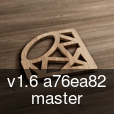
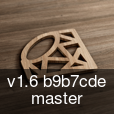
Simple test for existence of root_controller

Changed region(s): [[0.3684, 0.6579, 0.9474, 0.7632]]

diff --git a/files/spec/main_spec.rb b/files/spec/main_spec.rb
@@ -19,8 +19,8 @@ describe "Application 'SplashMotion'" do
     end
   end
 
-  it "should have base_leather stylesheet" do
-    @stylesheet = Teacup::Stylesheet[:base_leather]
-    @stylesheet.nil?.should == false
+  it "should have theme styles" do
+    Teacup::Stylesheet[:base_leather].should.not == nil
+    Teacup::Stylesheet[:basic].should.not == nil
   end
 end

diff --git a/files/spec/settings_spec.rb b/files/spec/settings_spec.rb
@@ -1,6 +1,10 @@
 describe "The settings controller" do
 	tests SettingsController
 
+	it "loads the controller fine" do
+		controller.should.not == nil
+	end
+
 	it "has a twitter label" do
 		controller.instance_variable_get("@twitter").should.not == nil
 	end

diff --git a/files/spec/root_spec.rb b/files/spec/root_spec.rb
@@ -1,0 +1,8 @@
+describe "The root controller" do
+	tests RootController
+
+	it "loads the controller fine" do
+		controller.should.not == nil
+	end
+
+end

diff --git a/files/lib/app_properties.rb b/files/lib/app_properties.rb
@@ -1,5 +1,5 @@
 class AppProperties
-  VERSION = '1.6'
+  VERSION = '1.7'
   SKU_NAME = 'motiontemplate' 
   COMPANY_NAME = 'com.iconoclastlabs.'
 
